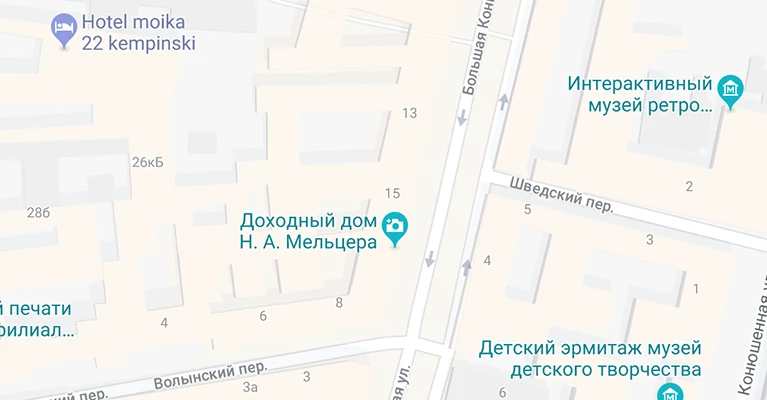
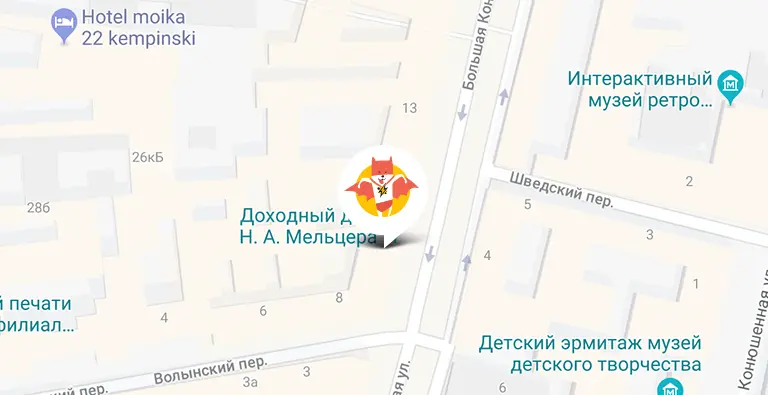
Правки к защите 5

diff --git a/source/less/blocks/contacts.less b/source/less/blocks/contacts.less
@@ -8,7 +8,7 @@
   flex-wrap: wrap;
   justify-content: space-between;
   .wrapper;
-  padding: 28px 20px;
+  padding: 28px 20px 23px;
 
   user-select: text;
 }
@@ -33,7 +33,12 @@
 }
 
 .contacts__map {
+  position: relative;
+
+  height: 366px;
+
   iframe {
+    display: none;
     position: relative;
     z-index: 2;
 
@@ -45,10 +50,13 @@
   }
 }
 
-.contacts__picture {
+.contacts__picture img {
   position: absolute;
   top: 0;
   left: 0;
+
+  min-width: 100%;
+  height: 366px;
   margin: 0;
   z-index: 1;
 }
@@ -61,11 +69,17 @@
   }
 
   .contacts__map {
+    height: 396px;
+
     iframe {
       width: 100%;
       height: 397px;
       margin: 0 auto;
     }
+  }
+
+  .contacts__picture img {
+    height: 396px
   }
 
   .contacts__invite {
@@ -91,17 +105,23 @@
   }
 
   .contacts__map {
+    height: 399px;
+
     iframe {
       width: 100%;
       min-height: 400px;
     }
   }
 
+  .contacts__picture img {
+    height: 399px
+  }
+
   .contacts__text {
     position: absolute;
     top: 94px;
     left: 40px;
-    z-index: 2;
+    z-index: 4;
 
     width: 570px;
     height: 201px;

diff --git a/source/less/blocks/catalog.less b/source/less/blocks/catalog.less
@@ -93,7 +93,7 @@
 
   .catalog__wrapper {
     width: @tablet-width;
-    padding: 53px 30px 0;
+    padding-top: 53px;
   }
 
   .catalog__title {
@@ -104,12 +104,11 @@
   .catalog__list {
     display: flex;
     flex-wrap: wrap;
-    justify-content: space-between;
   }
 
   .catalog__item div {
     padding: 0 30px;
-    margin-bottom: 30px;
+    margin-bottom: 20px;
   }
 
   .catalog__item {
@@ -117,13 +116,13 @@
 
     flex-direction: column;
     width: 324px;
-    margin: 70px 0 70px;
+    margin: 70px 30px 70px;
     padding: 0;
 
     border: none;
   }
 
-  .catalog__item:not(:last-of-type) {
+  .catalog__item {
     background-color: #f2f2f2;
   }
 
@@ -190,9 +189,13 @@
     margin-bottom: 24px;
   }
 
+  .catalog__title {
+    margin-left: 40px;
+  }
+
   .catalog__wrapper {
     width: @desktop-width;
-    padding: 68px 40px 0;
+    padding-top: 70px;
   }
 
   .catalog__item-title {
@@ -202,6 +205,8 @@
   .catalog__item {
     width: 245px;
     margin: 70px 0 72px;
+    margin-left: 40px;
+    margin-right: 40px;
   }
 
   .catalog__img {

diff --git a/source/index.html b/source/index.html
@@ -127,7 +127,7 @@
             <picture class="contacts__picture">
               <source media="(min-width: 1300px)" srcset="img/bg-map-desktop@1x.png">
               <source media="(min-width: 768px)" srcset="img/bg-map-tablet@1x.png">
-              <img class="contacts__map" src="img/bg-map-mobile@1x.png" width="320" height="400" alt="Офис компании по адресу ул. Большая Конюшенная 19/8, Санкт-Петербург">
+              <img src="img/bg-map-mobile@1x.png" width="320" height="400" alt="Офис компании по адресу ул. Большая Конюшенная 19/8, Санкт-Петербург">
             </picture>
           </div>
         </div>
